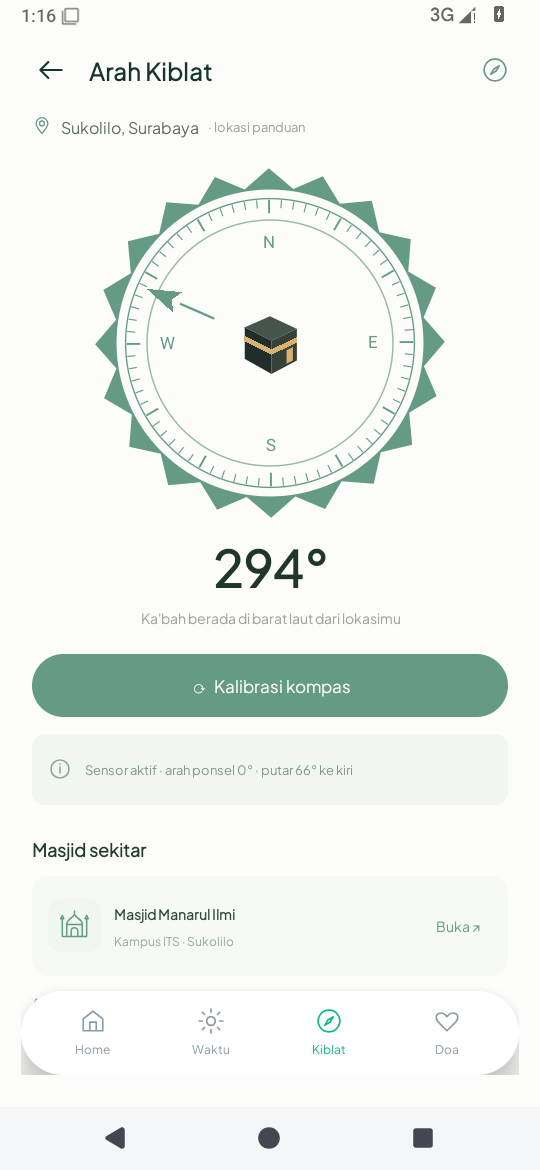
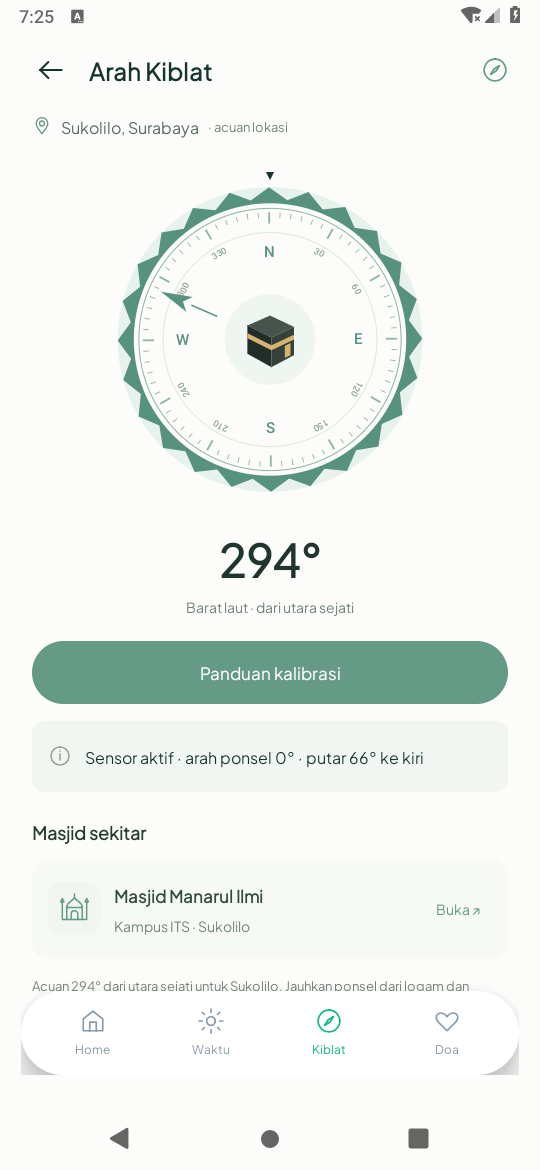
Refine native Qibla dial and sensor status

diff --git a/android/app/src/main/java/com/zikra/app/reading/QiblaCompassView.java b/android/app/src/main/java/com/zikra/app/reading/QiblaCompassView.java
@@ -5,6 +5,7 @@ import android.graphics.Canvas;
 import android.graphics.Color;
 import android.graphics.Paint;
 import android.graphics.Path;
+import android.graphics.Typeface;
 import android.util.AttributeSet;
 import android.view.View;
 
@@ -34,64 +35,84 @@ public class QiblaCompassView extends View {
   @Override
   protected void onDraw(Canvas canvas) {
     super.onDraw(canvas);
-    float scale = Math.min(getWidth(), getHeight()) / 328f;
+    float scale = Math.min(getWidth(), getHeight()) / 344f;
     canvas.save();
     canvas.translate(getWidth() / 2f, getHeight() / 2f);
     canvas.scale(scale, scale);
+    // Fixed top index represents the phone; the dial rotates beneath it.
+    color("#E8F2EC");
+    canvas.drawCircle(0, 0, 151, paint);
     canvas.save();
     canvas.rotate(-heading);
     Path rosette = new Path();
-    for (int i = 0; i < 40; i++) {
-      double angle = Math.toRadians(i * 9 - 90);
-      float radius = i % 2 == 0 ? 155f : 138f;
+    for (int i = 0; i < 48; i++) {
+      double angle = Math.toRadians(i * 7.5 - 90);
+      float radius = i % 2 == 0 ? 151f : 139f;
       float x = (float) Math.cos(angle) * radius;
       float y = (float) Math.sin(angle) * radius;
       if (i == 0) rosette.moveTo(x, y);
       else rosette.lineTo(x, y);
     }
     rosette.close();
-    color("#659B86");
+    color("#57927E");
     canvas.drawPath(rosette, paint);
     color("#FCFDFB");
-    canvas.drawCircle(0, 0, 136, paint);
-    color("#659B86");
+    canvas.drawCircle(0, 0, 135, paint);
+    color("#8EB4A2");
     paint.setStyle(Paint.Style.STROKE);
-    paint.setStrokeWidth(1.2f);
-    canvas.drawCircle(0, 0, 128, paint);
+    paint.setStrokeWidth(1f);
+    canvas.drawCircle(0, 0, 130, paint);
     for (int i = 0; i < 72; i++) {
       canvas.save();
       canvas.rotate(i * 5);
-      paint.setStrokeWidth(i % 6 == 0 ? 1.7f : 1f);
-      canvas.drawLine(0, -127, 0, i % 6 == 0 ? -115 : -120, paint);
+      paint.setStrokeWidth(i % 6 == 0 ? 1.8f : 0.9f);
+      canvas.drawLine(0, -126, 0, i % 6 == 0 ? -115 : -121, paint);
       canvas.restore();
     }
-    color("#FCFDFB");
-    canvas.drawCircle(0, 0, 109, paint);
-    color("#99B9A4");
+    color("#DAE8DF");
     paint.setStyle(Paint.Style.STROKE);
-    paint.setStrokeWidth(1.3f);
-    canvas.drawCircle(0, 0, 109, paint);
-    color("#659B86");
-    paint.setTextSize(15);
+    paint.setStrokeWidth(1f);
+    canvas.drawCircle(0, 0, 106, paint);
     paint.setTextAlign(Paint.Align.CENTER);
-    canvas.drawText("N", 0, -84, paint);
-    canvas.drawText("E", 91, 5, paint);
-    canvas.drawText("S", 0, 96, paint);
-    canvas.drawText("W", -91, 5, paint);
+    paint.setTypeface(Typeface.create("sans-serif-medium", Typeface.NORMAL));
+    paint.setTextSize(9);
+    for (int degrees = 30; degrees < 360; degrees += 30) {
+      if (degrees % 90 == 0) continue;
+      canvas.save();
+      canvas.rotate(degrees);
+      color("#8BA497");
+      canvas.drawText(String.valueOf(degrees), 0, -96, paint);
+      canvas.restore();
+    }
+    color("#57927E");
+    paint.setTextSize(15);
+    canvas.drawText("N", 0, -82, paint);
+    canvas.drawText("E", 87, 5, paint);
+    canvas.drawText("S", 0, 93, paint);
+    canvas.drawText("W", -87, 5, paint);
     canvas.restore();
+    color("#15332F");
+    Path index = new Path();
+    index.moveTo(0, -158);
+    index.lineTo(-4, -166);
+    index.lineTo(4, -166);
+    index.close();
+    canvas.drawPath(index, paint);
     canvas.save();
     canvas.rotate(294f - heading);
     Path pointer = new Path();
-    pointer.moveTo(0, -119);
-    pointer.lineTo(-10, -89);
-    pointer.lineTo(0, -95);
-    pointer.lineTo(10, -89);
+    pointer.moveTo(0, -118);
+    pointer.lineTo(-8, -87);
+    pointer.lineTo(0, -94);
+    pointer.lineTo(8, -87);
     pointer.close();
-    color(aligned ? "#10B981" : "#659B86");
+    color(aligned ? "#10B981" : "#57927E");
     canvas.drawPath(pointer, paint);
-    paint.setStrokeWidth(2);
-    canvas.drawLine(0, -87, 0, -54, paint);
+    paint.setStrokeWidth(1.5f);
+    canvas.drawLine(0, -85, 0, -57, paint);
     canvas.restore();
+    color(aligned ? "#E0F5EA" : "#EFF5F0");
+    canvas.drawCircle(0, 0, 45, paint);
     canvas.save();
     canvas.translate(0, -2);
     canvas.scale(0.7f, 0.7f);

diff --git a/android/app/src/main/java/com/zikra/app/QiblaActivity.java b/android/app/src/main/java/com/zikra/app/QiblaActivity.java
@@ -45,7 +45,8 @@ public class QiblaActivity extends BaseActivity implements SensorEventListener {
     super.onCreate(state);
     setContentView(R.layout.activity_qibla);
     setupScreen("Arah Kiblat");
-    getWindow().setStatusBarColor(android.graphics.Color.parseColor("#FCFDFB"));
+    getWindow().setStatusBarColor(getColor(R.color.ivory));
+    getWindow().setNavigationBarColor(getColor(R.color.ivory));
     getWindow()
         .getDecorView()
         .setSystemUiVisibility(
@@ -96,6 +97,12 @@ public class QiblaActivity extends BaseActivity implements SensorEventListener {
     receivedHeading = false;
     aligned = false;
     lastSensorRender = 0;
+    lastStatus = 0;
+    lastStatusText = "";
+    compass.setHeading(0, false);
+    sensorAccuracy = SensorManager.SENSOR_STATUS_UNRELIABLE;
+    if (rotationSensor != null)
+      sensorStatus.setText("Menunggu sensor · pegang ponsel mendatar.");
     if (rotationSensor != null && !sensorManager.registerListener(this, rotationSensor, 100_000)) {
       rotationSensor = null;
       showMissingSensor();
@@ -136,7 +143,8 @@ public class QiblaActivity extends BaseActivity implements SensorEventListener {
     receivedHeading = true;
     float distance = Math.abs(CompassMath.delta(QIBLA_BEARING, heading));
     boolean nextAligned =
-        sensorAccuracy != SensorManager.SENSOR_STATUS_UNRELIABLE && distance <= (aligned ? 8f : 5f);
+        sensorAccuracy >= SensorManager.SENSOR_STATUS_ACCURACY_MEDIUM
+            && distance <= (aligned ? 8f : 5f);
     if (nextAligned && !aligned && now - lastHaptic >= 2000) {
       Vibrator vibrator = (Vibrator) getSystemService(VIBRATOR_SERVICE);
       if (vibrator != null && vibrator.hasVibrator())
@@ -148,7 +156,7 @@ public class QiblaActivity extends BaseActivity implements SensorEventListener {
     compass.setHeading(heading, aligned);
     if (stateChanged || now - lastStatus > 350) {
       String text;
-      if (sensorAccuracy == SensorManager.SENSOR_STATUS_UNRELIABLE)
+      if (sensorAccuracy < SensorManager.SENSOR_STATUS_ACCURACY_MEDIUM)
         text = "Akurasi sensor rendah · kalibrasi kompas terlebih dahulu";
       else if (aligned) text = "✓ Sejajar dengan arah kiblat · 294°";
       else
@@ -161,6 +169,7 @@ public class QiblaActivity extends BaseActivity implements SensorEventListener {
                 CompassMath.delta(QIBLA_BEARING, heading) >= 0 ? "ke kanan" : "ke kiri");
       if (!text.equals(lastStatusText)) {
         sensorStatus.setText(text);
+        sensorStatus.setTextColor(getColor(aligned ? R.color.sage_active : R.color.pine));
         lastStatusText = text;
       }
       lastStatus = now;

diff --git a/android/VALIDATION.md b/android/VALIDATION.md
@@ -79,3 +79,12 @@ Screenshot yang sudah diperiksa: [Protector BMKG](validation/screens/ProtectorAc
 - Smoke Home dan pemeriksaan jarak strip/kartu juga lulus pada lebar sekitar 360dp. Screenshot [layar 360dp](validation/screens/HomeActivity360.png) diperiksa; CTA terlihat penuh di atas dock. Log: `validation/daily-small-screen-tests.txt`.
 - Screenshot Home diambil setelah frame siap; pengambilan otomatis awal yang hanya menampilkan background diganti. Palet dan ornamen Home dipertahankan. Screenshot [Home standar](validation/screens/HomeActivity.png) dan [jadwal](validation/screens/PrayerActivity.png) diperiksa. APK lulus verifikasi tanda tangan `apksigner`.
 - Jadwal merupakan hasil perhitungan lokasi tetap Sukolilo, **bukan feed resmi Kemenag**. Ini validasi perubahan fungsi harian; suite semua halaman, sensor fisik dan koneksi BMKG tidak diulang.
+
+
+## Kiblat — 17 Oktober 2026
+
+Dial dipadatkan sesuai referensi dengan rosette sage, penanda derajat, indeks arah ponsel, dan Ka’bah di tengah. Tata letak menggunakan XML dengan ukuran dial adaptif tinggi layar. Tombol membuka panduan kalibrasi, bukan mengklaim mengkalibrasi sensor secara otomatis. Status direset ketika halaman dibuka kembali; indikator sejajar dan haptik hanya aktif pada akurasi sensor minimal medium.
+
+Validasi satu putaran: `assembleDebug`, `lintDebug`, `assembleDebugAndroidTest`, dan 4 `CompassMathTest` lulus. Smoke test `NativeFlowTest#testQiblaInflatesWithoutPhysicalSensor` lulus (1 tes, emulator Android 9/API 28). Screenshot diperiksa sekali: [QiblaActivity.png](validation/screens/QiblaActivity.png). Sensor dan getaran pada ponsel fisik belum diuji. Build memakai compile/target SDK 35.
+
+Log: `validation/qibla-build.txt` dan `validation/qibla-device-test.txt`.
